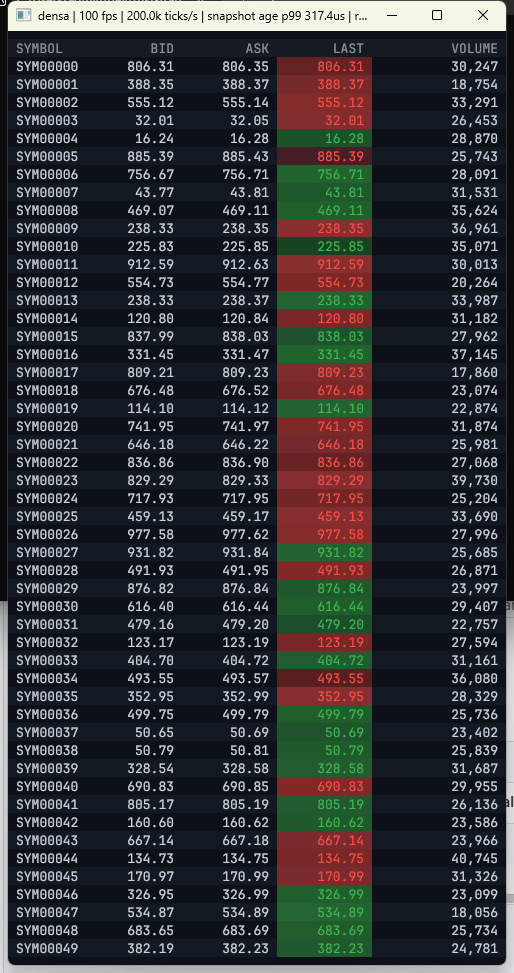
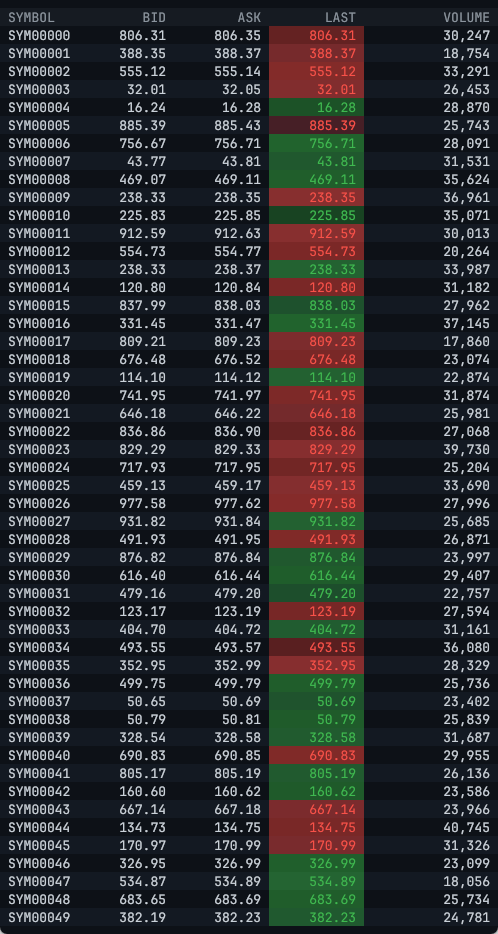
docs: crop the demo screenshot to the window; fix a stale test comment

diff --git a/examples/trading-demo/tests/headless.rs b/examples/trading-demo/tests/headless.rs
@@ -8,7 +8,7 @@ static ALLOCATOR: CountingAllocator = CountingAllocator::system();
 
 /// One session at a time. Each runs a busy-spinning worker: on a 2-CPU machine two of them
 /// plus their frame loops leave no CPU for anything (a 1 s run took 5.7 s at 0.4 fps).
-/// Separate cores for concurrent workers are tested in densa-engine's `worker.rs`.
+/// Separate cores for concurrent workers are tested in `tests/worker.rs`.
 static SESSION: std::sync::Mutex<()> = std::sync::Mutex::new(());
 
 fn one_session_at_a_time() -> std::sync::MutexGuard<'static, ()> {
